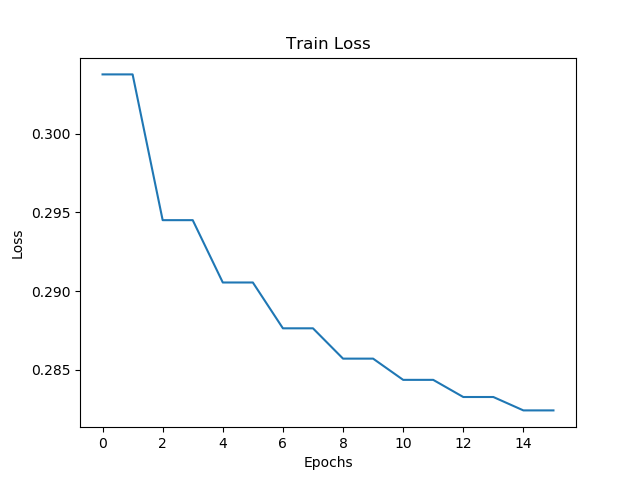
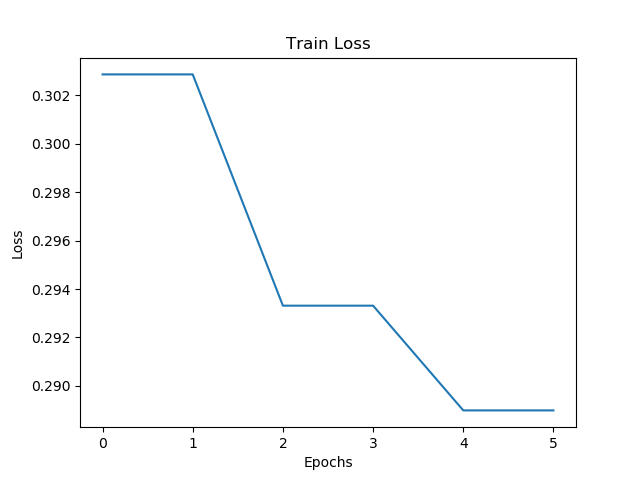
Fixed CNN

diff --git a/train.py b/train.py
@@ -4,7 +4,7 @@ import torchvision
 import torchvision.transforms as transforms
 import torch.nn as nn
 import torch.nn.functional as F
-from torch.utils.data import Dataset, DataLoader
+from torch.utils.data import Dataset, DataLoader, WeightedRandomSampler
 import torch.optim as optim
 import json
 import os
@@ -16,7 +16,7 @@ from sklearn.metrics import accuracy_score
 from VRUDataset import VRUDataset
 from models.cnn import CNN
 
-EPOCH = 30
+EPOCH = 3
 
 def encode(labels):
     encodedLabels = []
@@ -28,25 +28,49 @@ def encode(labels):
     encodedLabels= torch.tensor(encodedLabels)
     return encodedLabels
 
+'''def save_model():
+    torch.save({
+            'epoch': epoch,
+            'model_state_dict': model.state_dict(),
+            'optimizer_state_dict': optimizer.state_dict(),
+            'loss': loss,
+            ...
+            }, PATH)'''
+def max_output(out):
+    ret_val=[]
+    out=out.tolist()
+    for row in out:
+        print(row)
+        if row[0]>row[1]:
+            ret_val.append[0]
+        else:
+            ret_val.append[1]
+    ret_val=torch.tensor(ret_val)
+    return out
+
 def train():
+    print("Starting Train")
+    
     transform = transforms.Compose([transforms.ToTensor()])
     train_set = VRUDataset(transform=transform,json_path="train.json",data_path="C:\\Users\\shubh\\OneDrive\\Desktop\\ENTR 390\\Dataset\\Train")
     val_set = VRUDataset(transform=transform,json_path="val.json",data_path="C:\\Users\\shubh\\OneDrive\\Desktop\\ENTR 390\\Dataset\\Val")
-    train_set = DataLoader(train_set,shuffle=True,batch_size=32)
-    val_set = DataLoader(val_set,shuffle=True,batch_size=32)
-    print(len(val_set))
+    train_set = DataLoader(train_set,batch_size=48,shuffle=True)
+    val_set = DataLoader(val_set,shuffle=True,batch_size=48)
+
     cnn = CNN()
-    criterion = nn.CrossEntropyLoss()
+    weight = torch.FloatTensor([0.8, 4.0]).cuda()
+    criterion = nn.CrossEntropyLoss(weight=weight)
+    
     #criterion = nn.MSELoss()
-    optimizer = optim.SGD(cnn.parameters(), lr=0.0001,momentum=0.9)
+    optimizer = optim.Adam(cnn.parameters(), lr=0.0001)
     if torch.cuda.is_available():
         cnn=cnn.cuda()
         criterion=criterion.cuda()
-
+        weight=weight.cuda()
     # enc = OneHotEncoder()
     enc = LabelEncoder()
-    classes=['wheelchair','not_wheelchair']
-    enc.fit(classes)
+    #classes=['wheelchair','not_wheelchair']
+    #enc.fit(classes)
     # empty list to store training losses
     train_losses = []
     # empty list to store validation losses
@@ -54,6 +78,12 @@ def train():
     #cuda = torch.device('cuda')
     count=0
     val_count=0
+    positive_count=0
+    negative_count=0
+    false_positive=0
+    false_negative=0
+    true_positive=0
+    true_negative=0
     # train
     device = torch.device("cuda:0" if torch.cuda.is_available() else "cpu")
     for epoch in range(EPOCH):  # loop over the dataset multiple times
@@ -80,7 +110,13 @@ def train():
             train_outputs = cnn(inputs)
             #val_outputs= cnn(val_inputs)
             # import ipdb; ipdb.set_trace()
-            loss = criterion(train_outputs, torch.max(encodedLabels, 1)[1])
+            #print(train_outputs.cpu())
+            #print(torch.max(encodedLabels, 1)[0])
+            #print(torch.max(train_outputs.cpu(), 1).indices.reshape(-1,1))
+            
+            loss = criterion(train_outputs,torch.max(encodedLabels, 1)[0])
+            #loss= loss*weight
+            #loss=loss.mean()
             train_losses.append(loss)
             loss.backward()
             optimizer.step()
@@ -91,10 +127,24 @@ def train():
             encodedLabels = encodedLabels[:, 0]
             for a, b in zip(train_pred, encodedLabels):
                 if a == b:
-                    count =count+1
+                    if a==0: 
+                        true_negative= true_negative+1
+                    else: 
+                        true_positive = true_positive+1
+                    count= count+1
+                if b==1:
+                    positive_count = positive_count+1 
+                    if a!=1:
+                        false_negative = false_negative+1
+                else:
+                    negative_count = negative_count+1
+                if a==1:
+                    if b!=1:
+                        false_positive = false_positive+1
             running_loss += loss.item()
 
             if i % 100 == 99:    # print every 2000 mini-batches
+                print()
                 print('[%d, %5d] train loss: %.3f' %
                     (epoch + 1, (i + 1), running_loss / 100))
                 running_loss = 0.0
@@ -103,10 +153,25 @@ def train():
                 '''plt.plot(train_losses, label='Training loss')
                 plt.legend()
                 plt.show()'''
-                print("Training Accuracy = ",count/3200.0)
-                count=0
-                ## Validation Below
 
+                print("Percentage of Wheelchairs = ", positive_count/4800.0)
+                print("Training Accuracy = ",count/4800.0)
+                print("True Positive % = ",true_positive/4800.0)
+                print("True Negative % = ",true_negative/4800.0)
+                print("False Positive % = ", false_positive/4800.0)
+                print("False Negative % = ",false_negative/4800.0)
+                
+                count=0
+                positive_count=0
+                negative_count=0
+                false_positive=0
+                false_negative=0
+                true_negative=0
+                true_positive=0
+                ## Validation Below
+                torch.cuda.empty_cache()
+                torch.no_grad()
+                val_count=0
                 for it, val_data in enumerate(val_set,0):
                     val_inputs = val_data.get("image")
                     val_labels = val_data.get("label")
@@ -117,16 +182,16 @@ def train():
                         val_encodedLabels = torch.tensor(val_encodedLabels).cuda()
                     val_outputs=cnn(val_inputs)
                     val_encodedLabels=val_encodedLabels.cpu()
-                    val_inputs=val_inputs.cpu()
                     val_pred=np.argmax(train_outputs.detach().numpy(),axis=1)
                     val_encodedLabels = val_encodedLabels[:, 0]
                     for a, b in zip(val_pred, val_encodedLabels):
                         if a == b:
                             val_count += 1
-                    #torch.cuda.empty_cache()
-                    #torch.no_grad()
-                print('Validation Accuracy = %.3f'  % (val_count/(32*len(val_set))))
+                    
+                print('Validation Accuracy = %.3f'  % (val_count/(48*len(val_set))))
+                print()
                 val_count=0
+
 
 
             

diff --git a/models/autoencoder.py b/models/autoencoder.py
@@ -7,18 +7,18 @@ class Autoencoder(nn.Module):
         super(Autoencoder, self).__init__()
  
         # encoder
-        self.enc1 = nn.Linear(in_features=30000, out_features=256)
-        self.enc2 = nn.Linear(in_features=256, out_features=128)
-        self.enc3 = nn.Linear(in_features=128, out_features=64)
-        self.enc4 = nn.Linear(in_features=64, out_features=32)
-        self.enc5 = nn.Linear(in_features=32, out_features=16)
+        self.enc1 = nn.Linear(in_features=30000, out_features=10000)
+        self.enc2 = nn.Linear(in_features=10000, out_features=2048)
+        self.enc3 = nn.Linear(in_features=2048, out_features=256)
+        self.enc4 = nn.Linear(in_features=256, out_features=64)
+        self.enc5 = nn.Linear(in_features=64, out_features=16)
  
         # decoder 
-        self.dec1 = nn.Linear(in_features=16, out_features=32)
-        self.dec2 = nn.Linear(in_features=32, out_features=64)
-        self.dec3 = nn.Linear(in_features=64, out_features=128)
-        self.dec4 = nn.Linear(in_features=128, out_features=256)
-        self.dec5 = nn.Linear(in_features=256, out_features=30000)
+        self.dec1 = nn.Linear(in_features=16, out_features=64)
+        self.dec2 = nn.Linear(in_features=64, out_features=256)
+        self.dec3 = nn.Linear(in_features=256, out_features=2048)
+        self.dec4 = nn.Linear(in_features=2048, out_features=10000)
+        self.dec5 = nn.Linear(in_features=10000, out_features=30000)
  
     def forward(self, x):
         x = F.relu(self.enc1(x))

diff --git a/models/cnn.py b/models/cnn.py
@@ -7,7 +7,10 @@ class CNN(nn.Module):
         self.conv1 = nn.Conv2d(3, 6, 5)
         self.pool = nn.MaxPool2d(2, 2)
         self.conv2 = nn.Conv2d(6, 16, 5)
-        self.fc1 = nn.Linear(7744, 120)
+        #self.conv3 = nn.Conv2d(8,3,3)
+        #self.fc0 = nn.Linear(19200,7744)
+        self.fc1 = nn.Linear(7744, 512)
+        self.fc1_5= nn.Linear(512,120)
         self.fc2 = nn.Linear(120, 84)
         self.fc3 = nn.Linear(84,2)
 
@@ -15,9 +18,12 @@ class CNN(nn.Module):
         # import ipdb; ipdb.set_trace()
         x = self.pool(F.relu(self.conv1(x)))
         x = self.pool(F.relu(self.conv2(x)))
+        #x = self.pool(F.relu(self.conv3(x)))
         #print(x.shape)
         x = x.view(-1, 7744)
+        #x = F.relu(self.fc0(x))
         x = F.relu(self.fc1(x))
+        x = F.relu(self.fc1_5(x))
         x = F.relu(self.fc2(x))
         x = self.fc3(x)
         return x

diff --git a/Autoencoder/train_autoencoder.py b/Autoencoder/train_autoencoder.py
@@ -14,7 +14,7 @@ from torchvision.utils import save_image
 from autoencoder import Autoencoder
 from VRUDataset import VRUDataset
 
-NUM_EPOCHS = 8
+NUM_EPOCHS = 3
 LEARNING_RATE = 1e-3
 BATCH_SIZE = 32
 net = Autoencoder()
@@ -74,8 +74,7 @@ def test_image_reconstruction(net, testloader):
 		img = img.view(img.size(0), -1)
 		outputs = net(img)
 		outputs = outputs.view(outputs.size(0), 3, 100, 100).cpu().data
-		save_image(outputs, '.\\Results\\wheelchair.png')
-		break
+		save_image(outputs, '.\\Results\\img.png')
 
 
 def train_autoencoder():

diff --git a/VRUDataset.py b/VRUDataset.py
@@ -18,7 +18,6 @@ class VRUDataset(Dataset):
 
     def __len__(self):
         return len(self.json['obj'])
-    
     def __getitem__(self, idx):
         img_name = self.json['obj'][idx]['f_name']
         img = Image.open(os.path.join(self.data_path, img_name))
